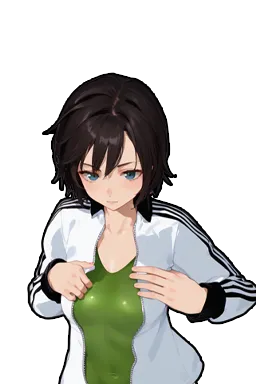
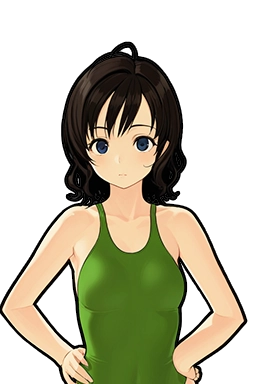
試合シーンをstandフォルダの立ち絵に切り替え
- image/stand/ フォルダ追加（upper_* → stand_* リネーム済み98ファイル）
- battle-engine.html の getUpperUrl を image/stand/stand_*.webp 参照に変更
- 顔画像・upper画像の更新（iwasaki_m / matsushita_m / oba_a）

diff --git a/src/battle-engine.html b/src/battle-engine.html
@@ -352,7 +352,7 @@ const PORTRAIT={1:'abukuma_t',2:'tomioka_k',3:'sawade_m',4:'takatsu_k',5:'fukama
 91:'todoroki_a',92:'iijima_s',93:'matsukubo_i',94:'sudo_m',95:'konishi_y',96:'matsushita_m',
 97:'iwasaki_m',98:'yoneyama_a',99:'miura_s'};
 function getFaceUrl(f){return f.portraitUrl || (PORTRAIT[f.id] ? `../image/face_${PORTRAIT[f.id]}.png` : '');}
-function getUpperUrl(f){return PORTRAIT[f.id] ? `../image/upper/upper_${PORTRAIT[f.id]}.webp` : getFaceUrl(f);}
+function getUpperUrl(f){return PORTRAIT[f.id] ? `../image/stand/stand_${PORTRAIT[f.id]}.webp` : getFaceUrl(f);}
 
 // ═══ MOVES (v3.5 data preserved) ═══
 const commonMoves=[
